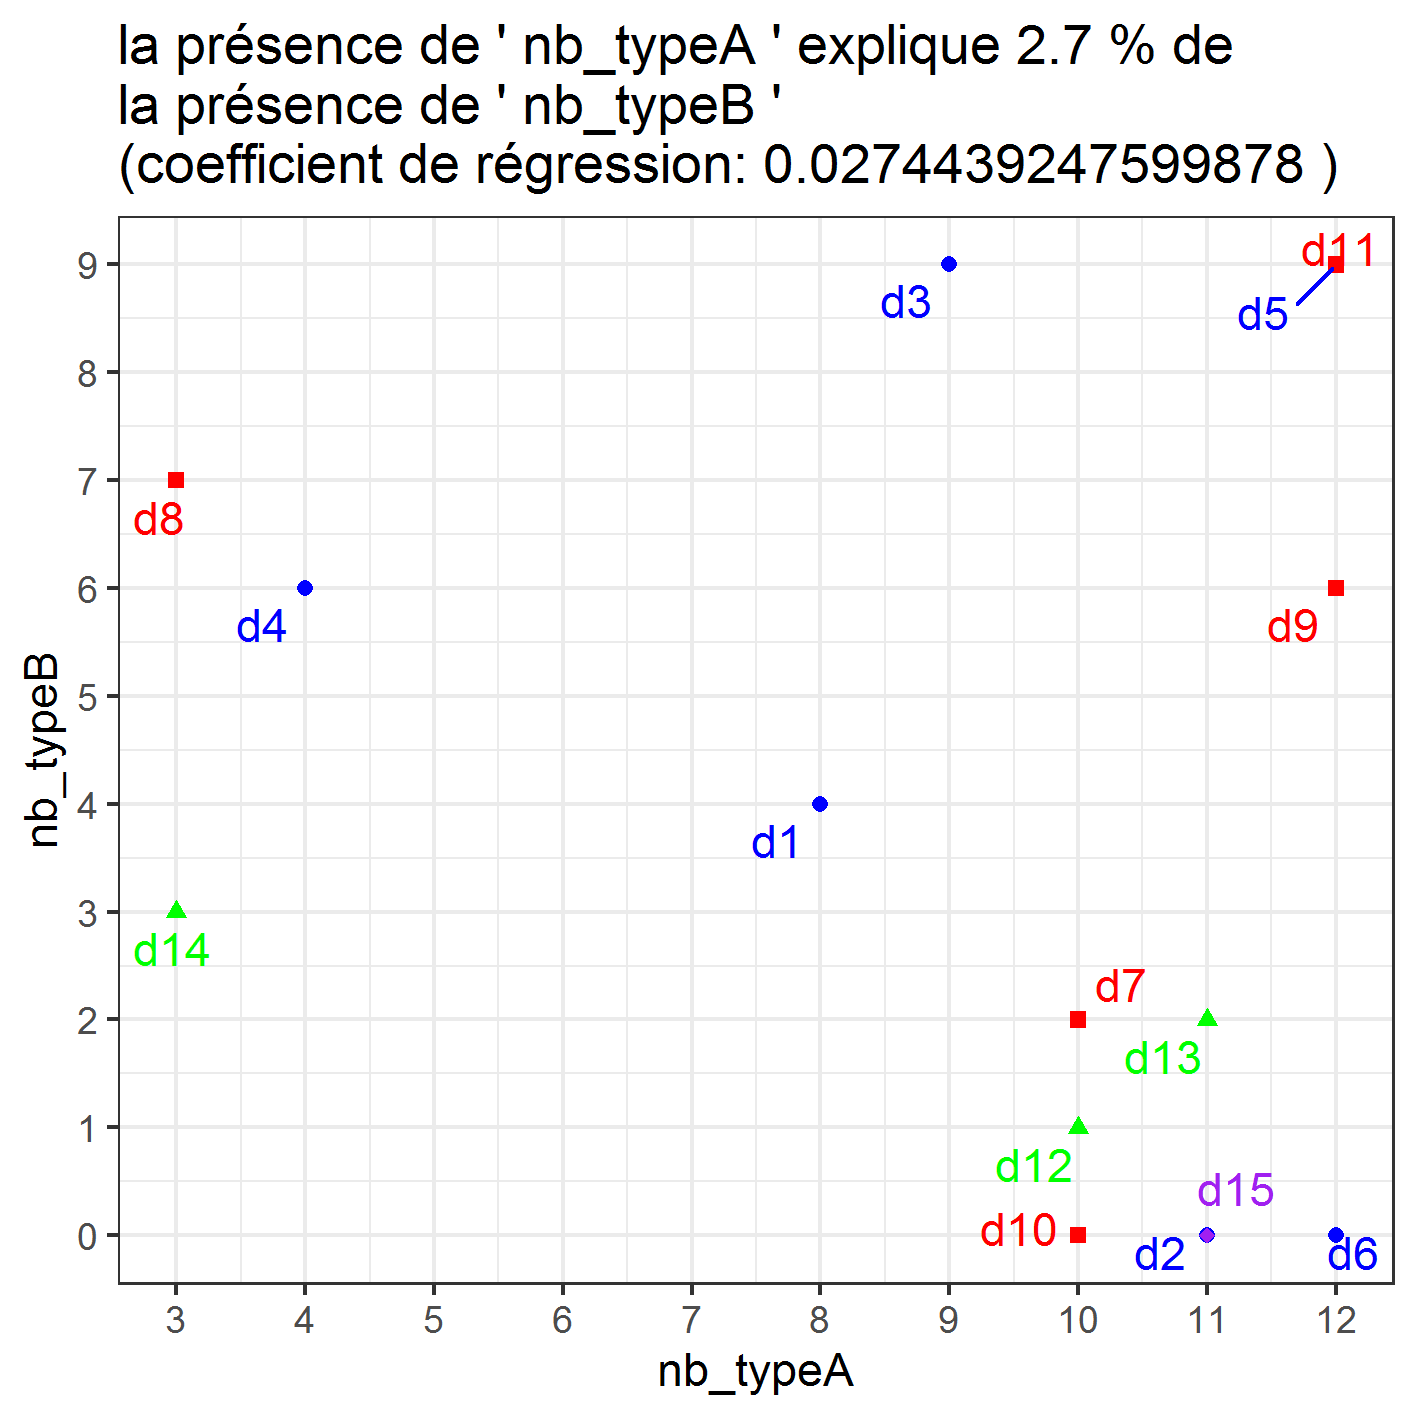
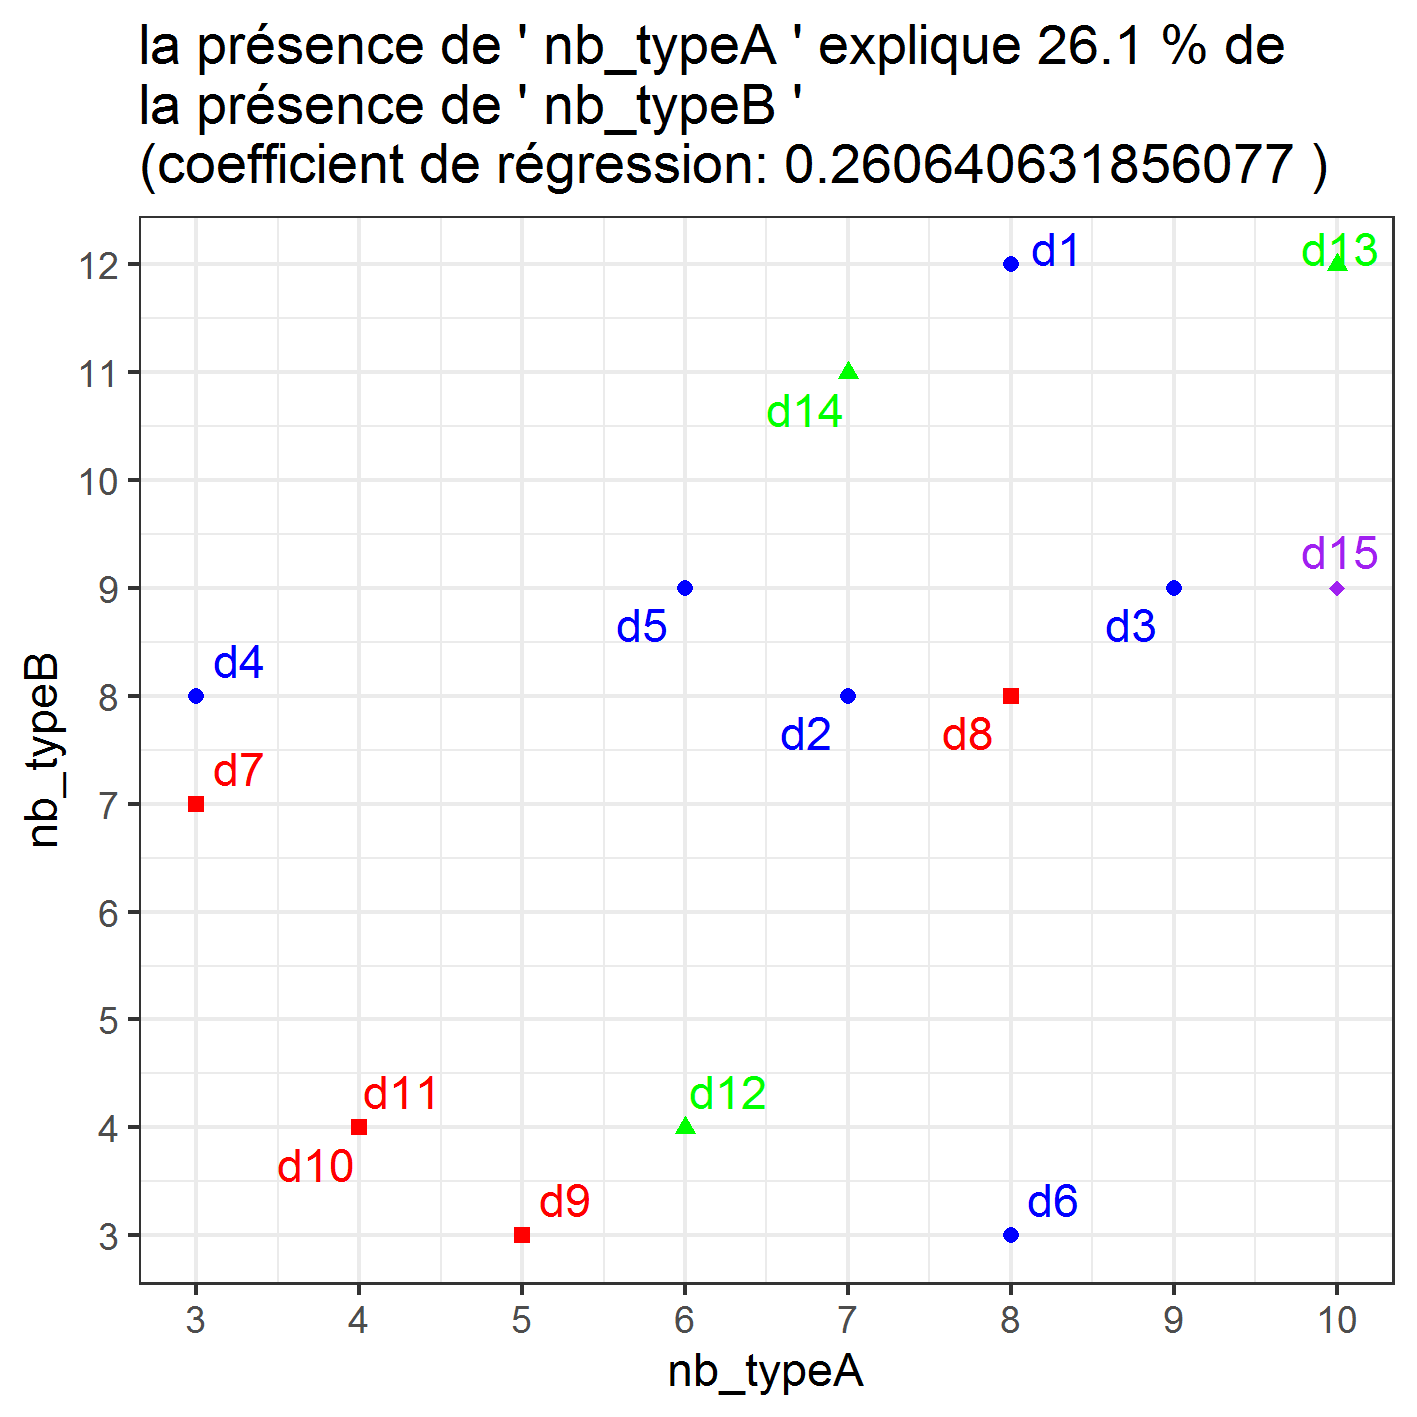
reg

diff --git a/README.md b/README.md
@@ -48,7 +48,7 @@ R statistical functions for uni-, bi-, and multi-variate dataframes, with data a
 
 | statistics    | data          |code          |output          |
 | ------------- | ------------- |--------------|----------------|
-| regressions   | [data_regression.csv](https://github.com/zoometh/Rdev/blob/master/data/data_regression.csv)  | [regressions.R](https://github.com/zoometh/Rdev/blob/master/functions/regressions.R) | [reg_depots.png](https://github.com/zoometh/Rdev/blob/master/out/reg_depots.png)| 
+| regressions   | [data_factor_analysis.csv](https://github.com/zoometh/Rdev/blob/master/data/data_factor_analysis.csv)  | [regressions.R](https://github.com/zoometh/Rdev/blob/master/functions/regressions.R) | [reg_depots.png](https://github.com/zoometh/Rdev/blob/master/out/reg_depots.png)| 
 | CA            | [data_factor_analysis.csv](https://github.com/zoometh/Rdev/blob/master/data/data_factor_analysis.csv) | [factor_analysis.R](https://github.com/zoometh/Rdev/blob/master/functions/factor_analysis.R) | [ca_depots.png](https://github.com/zoometh/Rdev/blob/master/out/ca_depots.png) |
 | LDA           | [data_factor_analysis.csv](https://github.com/zoometh/Rdev/blob/master/data/data_factor_analysis.csv) | [discriminant_analysis.R](https://github.com/zoometh/Rdev/blob/master/functions/discriminant_analysis.R) | [lda_depots.png](https://github.com/zoometh/Rdev/blob/master/out/lda_depots.png) |
 | CAH           | [data_factor_analysis.csv](https://github.com/zoometh/Rdev/blob/master/data/data_factor_analysis.csv) | [cluster_analysis.R](https://github.com/zoometh/Rdev/blob/master/functions/cluster_analysis.R) | [cah_depots.png](https://github.com/zoometh/Rdev/blob/master/out/cah_depots.png) |
